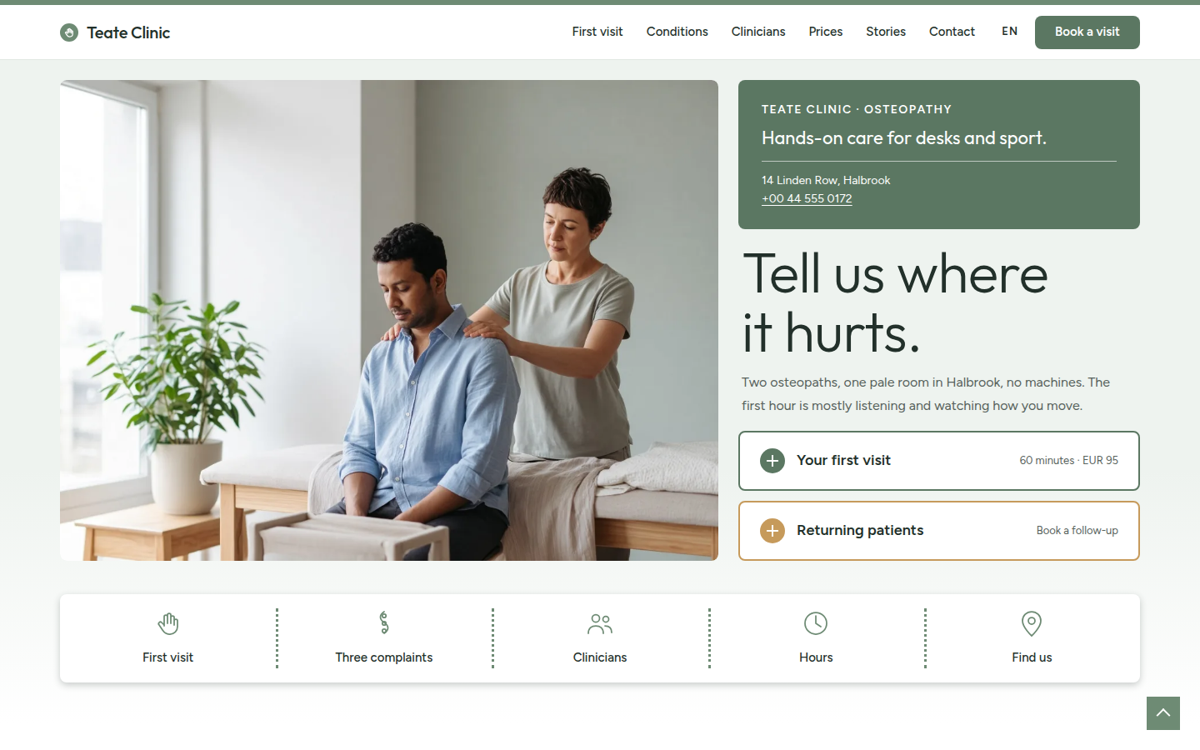
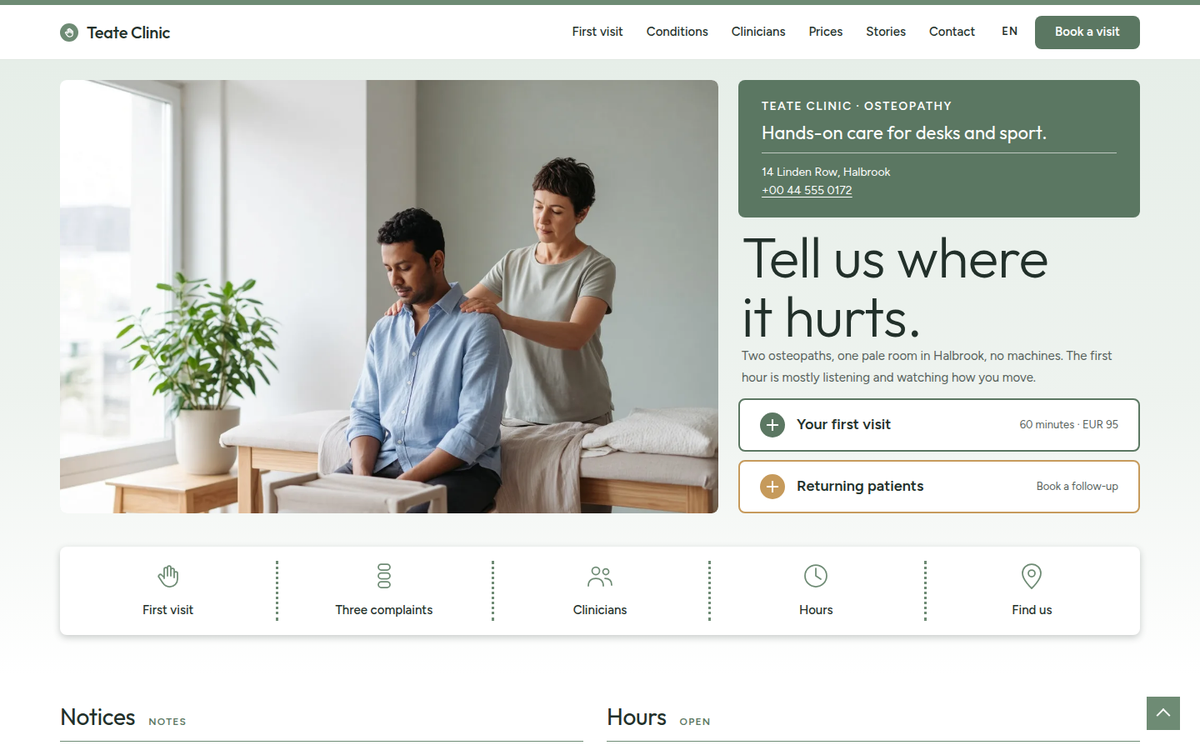
teate-clinic: stage-2 home fixes (valid price table, mobile band, hour photo fills column, screenshot)

diff --git a/themes/teate-clinic/style.css b/themes/teate-clinic/style.css
@@ -173,7 +173,9 @@ img { max-width: 100%; height: auto; }
 .tc-split { display: grid; grid-template-columns: 7fr 5fr; gap: 56px; align-items: start; }
 .tc-split__main { min-width: 0; }
 .tc-split__main .tc-lead { margin-bottom: 28px !important; }
-.tc-split__side { position: sticky; top: 104px; }
+.tc-split__side { align-self: stretch; display: flex; flex-direction: column; }
+.tc-split__side .tc-portrait { flex: 1; min-height: 0; }
+.tc-split__side .tc-portrait img { height: 100%; min-height: 360px; }
 .tc-portrait img { aspect-ratio: 4 / 5; }
 .tc-flow { list-style: none; margin: 28px 0 0; padding: 0; }
 .tc-flow li { display: flex; gap: 16px; padding: 10px 0; border-top: 2px dotted var(--tc-pri); }
@@ -212,10 +214,10 @@ img { max-width: 100%; height: auto; }
 .wp-block-table.tc-pt thead { border: 0; }
 .wp-block-table.tc-pt th { font-size: .875rem; font-weight: 600; color: var(--tc-strong); padding: 10px 12px 12px 0; border-bottom: 1px solid var(--tc-pri); }
 .wp-block-table.tc-pt td { border-bottom: 1px solid var(--tc-line); }
-.wp-block-table.tc-pt .tc-pt__v { font-weight: 600; width: 20%; }
-.wp-block-table.tc-pt .tc-pt__len, .wp-block-table.tc-pt th:nth-child(3) { width: 130px; white-space: nowrap; }
-.wp-block-table.tc-pt .tc-pt__p, .wp-block-table.tc-pt th:nth-child(4) { white-space: nowrap; text-align: right; min-width: 110px; padding-right: 0; }
-.wp-block-table.tc-pt .tc-pt__p { font-weight: 600; }
+.wp-block-table.tc-pt td:nth-child(1) { font-weight: 600; width: 20%; }
+.wp-block-table.tc-pt td:nth-child(3), .wp-block-table.tc-pt th:nth-child(3) { width: 130px; white-space: nowrap; }
+.wp-block-table.tc-pt td:nth-child(4), .wp-block-table.tc-pt th:nth-child(4) { white-space: nowrap; text-align: right; min-width: 110px; padding-right: 0; }
+.wp-block-table.tc-pt td:nth-child(4) { font-weight: 600; }
 
 /* tiles */
 .tc-tiles { display: grid; grid-template-columns: repeat(4, 1fr); gap: 20px; }
@@ -284,7 +286,8 @@ img { max-width: 100%; height: auto; }
 	.tc-hero__mid { padding: 8px 0; }
 	.tc-pair, .tc-split { grid-template-columns: 1fr; gap: 40px; }
 	.tc-prose { column-count: 1; }
-	.tc-split__side { position: static; max-width: 420px; }
+	.tc-split__side { max-width: 420px; }
+	.tc-split__side .tc-portrait img { height: auto; }
 	.tc-comps { grid-template-columns: 1fr; gap: 40px; }
 	.tc-footer__in { grid-template-columns: 1fr; gap: 32px; }
 }
@@ -292,9 +295,9 @@ img { max-width: 100%; height: auto; }
 	.tc-sec { padding: 56px 0; }
 	.tc-sec.tc-hero { padding: 16px 0 32px; }
 	.tc-sec.tc-sec--notices { padding-top: 16px; }
-	.tc-band { height: 420px; --sp-par: 6%; }
-	.tc-band__in { margin-bottom: 24px; }
-	.tc-bandcard { padding: 24px; }
+	.tc-band { height: auto; padding-top: 240px; --sp-par: 6%; }
+	.tc-band__in { width: calc(100% - 32px); margin-bottom: 16px; }
+	.tc-bandcard { width: 100%; padding: 20px; }
 	.tc-sheet { grid-template-columns: repeat(2, 1fr); margin-top: 24px; }
 	.tc-sheet__cell + .tc-sheet__cell::before { display: none; }
 	.tc-sheet__cell:nth-child(n+3) { border-top: 2px dotted var(--tc-pri); }
@@ -312,9 +315,9 @@ img { max-width: 100%; height: auto; }
 	.wp-block-table.tc-pt thead { position: absolute; width: 1px; height: 1px; overflow: hidden; clip: rect(0 0 0 0); white-space: nowrap; }
 	.wp-block-table.tc-pt tr { display: grid; grid-template-columns: 1fr auto; gap: 2px 12px; padding: 14px 0; border-bottom: 1px solid var(--tc-line); }
 	.wp-block-table.tc-pt td { display: block; border: 0; padding: 0; width: auto; min-width: 0; }
-	.wp-block-table.tc-pt .tc-pt__v, .wp-block-table.tc-pt .tc-pt__w { grid-column: 1 / -1; width: auto; }
-	.wp-block-table.tc-pt .tc-pt__p { grid-column: 2; grid-row: 3; }
-	.wp-block-table.tc-pt .tc-pt__len { grid-column: 1; grid-row: 3; width: auto; color: var(--tc-muted); }
+	.wp-block-table.tc-pt td:nth-child(1), .wp-block-table.tc-pt td:nth-child(2) { grid-column: 1 / -1; width: auto; }
+	.wp-block-table.tc-pt td:nth-child(4) { grid-column: 2; grid-row: 3; }
+	.wp-block-table.tc-pt td:nth-child(3) { grid-column: 1; grid-row: 3; width: auto; color: var(--tc-muted); }
 }
 @media (max-width: 559px) {
 	.tc-tiles { grid-template-columns: 1fr 1fr; gap: 12px; }

diff --git a/themes/teate-clinic/patterns/front-prices.php b/themes/teate-clinic/patterns/front-prices.php
@@ -22,7 +22,7 @@
 </div>
 <!-- /wp:group -->
 <!-- wp:table {"className":"tc-pt"} -->
-<figure class="wp-block-table tc-pt"><table><thead><tr><th><?php echo esc_html( teate_clinic_t( 'pt_h1' ) ); ?></th><th><?php echo esc_html( teate_clinic_t( 'pt_h2' ) ); ?></th><th><?php echo esc_html( teate_clinic_t( 'pt_h3' ) ); ?></th><th><?php echo esc_html( teate_clinic_t( 'pt_h4' ) ); ?></th></tr></thead><tbody><tr><td class="tc-pt__v"><?php echo esc_html( teate_clinic_t( 'price_1_v' ) ); ?></td><td class="tc-pt__w"><?php echo esc_html( teate_clinic_t( 'price_1_w' ) ); ?></td><td class="tc-pt__len"><?php echo esc_html( teate_clinic_t( 'price_1_len' ) ); ?></td><td class="tc-pt__p"><?php echo esc_html( teate_clinic_t( 'price_1_p' ) ); ?></td></tr><tr><td class="tc-pt__v"><?php echo esc_html( teate_clinic_t( 'price_2_v' ) ); ?></td><td class="tc-pt__w"><?php echo esc_html( teate_clinic_t( 'price_2_w' ) ); ?></td><td class="tc-pt__len"><?php echo esc_html( teate_clinic_t( 'price_2_len' ) ); ?></td><td class="tc-pt__p"><?php echo esc_html( teate_clinic_t( 'price_2_p' ) ); ?></td></tr><tr><td class="tc-pt__v"><?php echo esc_html( teate_clinic_t( 'price_3_v' ) ); ?></td><td class="tc-pt__w"><?php echo esc_html( teate_clinic_t( 'price_3_w' ) ); ?></td><td class="tc-pt__len"><?php echo esc_html( teate_clinic_t( 'price_3_len' ) ); ?></td><td class="tc-pt__p"><?php echo esc_html( teate_clinic_t( 'price_3_p' ) ); ?></td></tr><tr><td class="tc-pt__v"><?php echo esc_html( teate_clinic_t( 'price_4_v' ) ); ?></td><td class="tc-pt__w"><?php echo esc_html( teate_clinic_t( 'price_4_w' ) ); ?></td><td class="tc-pt__len"><?php echo esc_html( teate_clinic_t( 'price_4_len' ) ); ?></td><td class="tc-pt__p"><?php echo esc_html( teate_clinic_t( 'price_4_p' ) ); ?></td></tr><tr><td class="tc-pt__v"><?php echo esc_html( teate_clinic_t( 'price_5_v' ) ); ?></td><td class="tc-pt__w"><?php echo esc_html( teate_clinic_t( 'price_5_w' ) ); ?></td><td class="tc-pt__len"><?php echo esc_html( teate_clinic_t( 'price_5_len' ) ); ?></td><td class="tc-pt__p"><?php echo esc_html( teate_clinic_t( 'price_5_p' ) ); ?></td></tr><tr><td class="tc-pt__v"><?php echo esc_html( teate_clinic_t( 'price_6_v' ) ); ?></td><td class="tc-pt__w"><?php echo esc_html( teate_clinic_t( 'price_6_w' ) ); ?></td><td class="tc-pt__len"><?php echo esc_html( teate_clinic_t( 'price_6_len' ) ); ?></td><td class="tc-pt__p"><?php echo esc_html( teate_clinic_t( 'price_6_p' ) ); ?></td></tr></tbody></table></figure>
+<figure class="wp-block-table tc-pt"><table><thead><tr><th><?php echo esc_html( teate_clinic_t( 'pt_h1' ) ); ?></th><th><?php echo esc_html( teate_clinic_t( 'pt_h2' ) ); ?></th><th><?php echo esc_html( teate_clinic_t( 'pt_h3' ) ); ?></th><th><?php echo esc_html( teate_clinic_t( 'pt_h4' ) ); ?></th></tr></thead><tbody><tr><td><?php echo esc_html( teate_clinic_t( 'price_1_v' ) ); ?></td><td><?php echo esc_html( teate_clinic_t( 'price_1_w' ) ); ?></td><td><?php echo esc_html( teate_clinic_t( 'price_1_len' ) ); ?></td><td><?php echo esc_html( teate_clinic_t( 'price_1_p' ) ); ?></td></tr><tr><td><?php echo esc_html( teate_clinic_t( 'price_2_v' ) ); ?></td><td><?php echo esc_html( teate_clinic_t( 'price_2_w' ) ); ?></td><td><?php echo esc_html( teate_clinic_t( 'price_2_len' ) ); ?></td><td><?php echo esc_html( teate_clinic_t( 'price_2_p' ) ); ?></td></tr><tr><td><?php echo esc_html( teate_clinic_t( 'price_3_v' ) ); ?></td><td><?php echo esc_html( teate_clinic_t( 'price_3_w' ) ); ?></td><td><?php echo esc_html( teate_clinic_t( 'price_3_len' ) ); ?></td><td><?php echo esc_html( teate_clinic_t( 'price_3_p' ) ); ?></td></tr><tr><td><?php echo esc_html( teate_clinic_t( 'price_4_v' ) ); ?></td><td><?php echo esc_html( teate_clinic_t( 'price_4_w' ) ); ?></td><td><?php echo esc_html( teate_clinic_t( 'price_4_len' ) ); ?></td><td><?php echo esc_html( teate_clinic_t( 'price_4_p' ) ); ?></td></tr><tr><td><?php echo esc_html( teate_clinic_t( 'price_5_v' ) ); ?></td><td><?php echo esc_html( teate_clinic_t( 'price_5_w' ) ); ?></td><td><?php echo esc_html( teate_clinic_t( 'price_5_len' ) ); ?></td><td><?php echo esc_html( teate_clinic_t( 'price_5_p' ) ); ?></td></tr><tr><td><?php echo esc_html( teate_clinic_t( 'price_6_v' ) ); ?></td><td><?php echo esc_html( teate_clinic_t( 'price_6_w' ) ); ?></td><td><?php echo esc_html( teate_clinic_t( 'price_6_len' ) ); ?></td><td><?php echo esc_html( teate_clinic_t( 'price_6_p' ) ); ?></td></tr></tbody></table></figure>
 <!-- /wp:table -->
 <!-- wp:paragraph {"className":"tc-note tc-note--p"} -->
 <p class="tc-note tc-note--p"><?php echo esc_html( teate_clinic_t( 'prices_note' ) ); ?></p>
